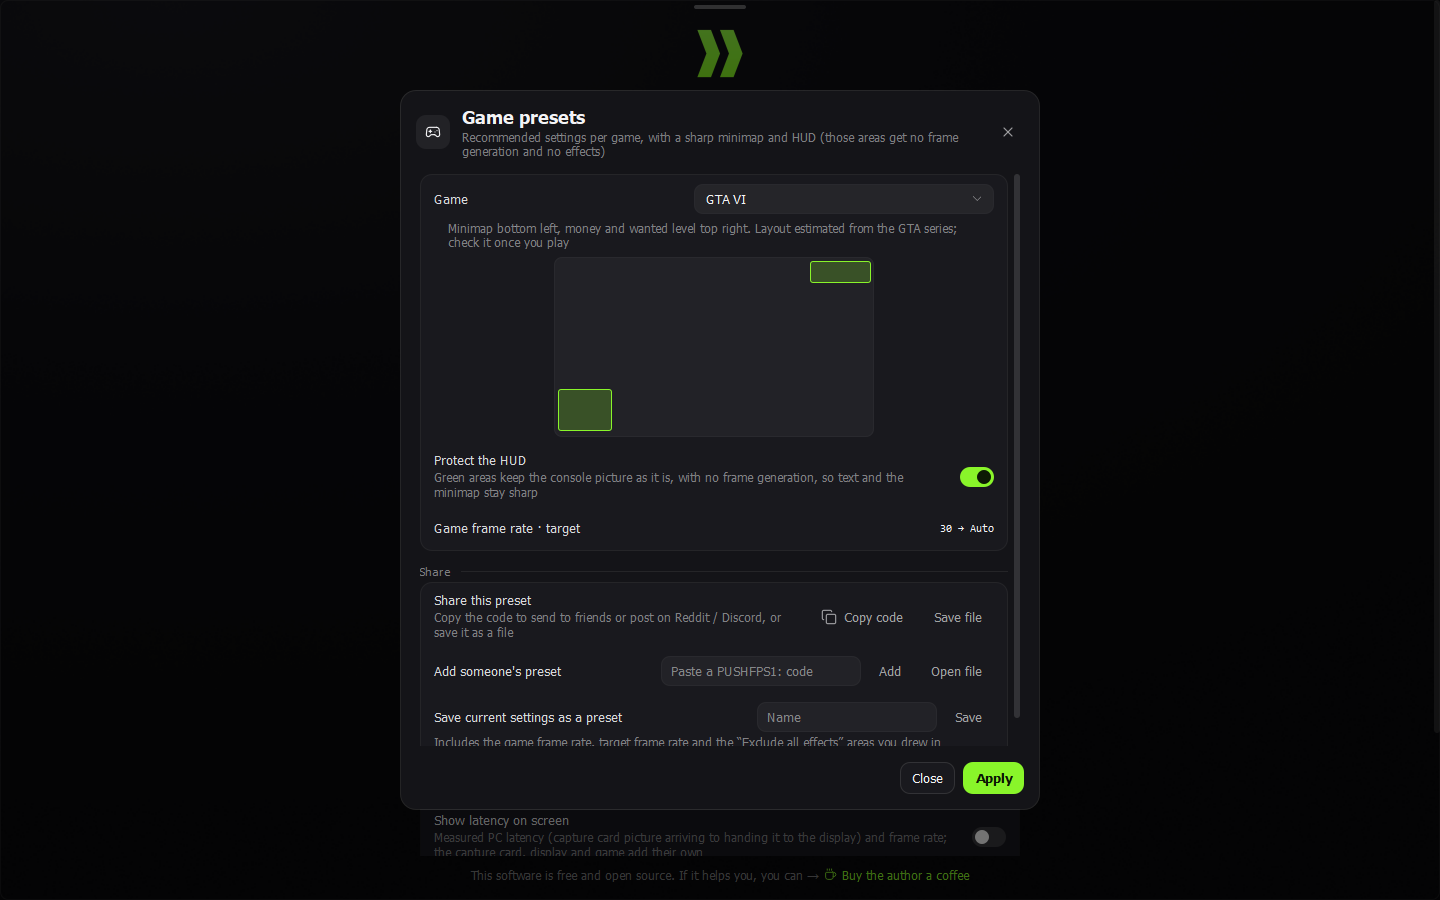
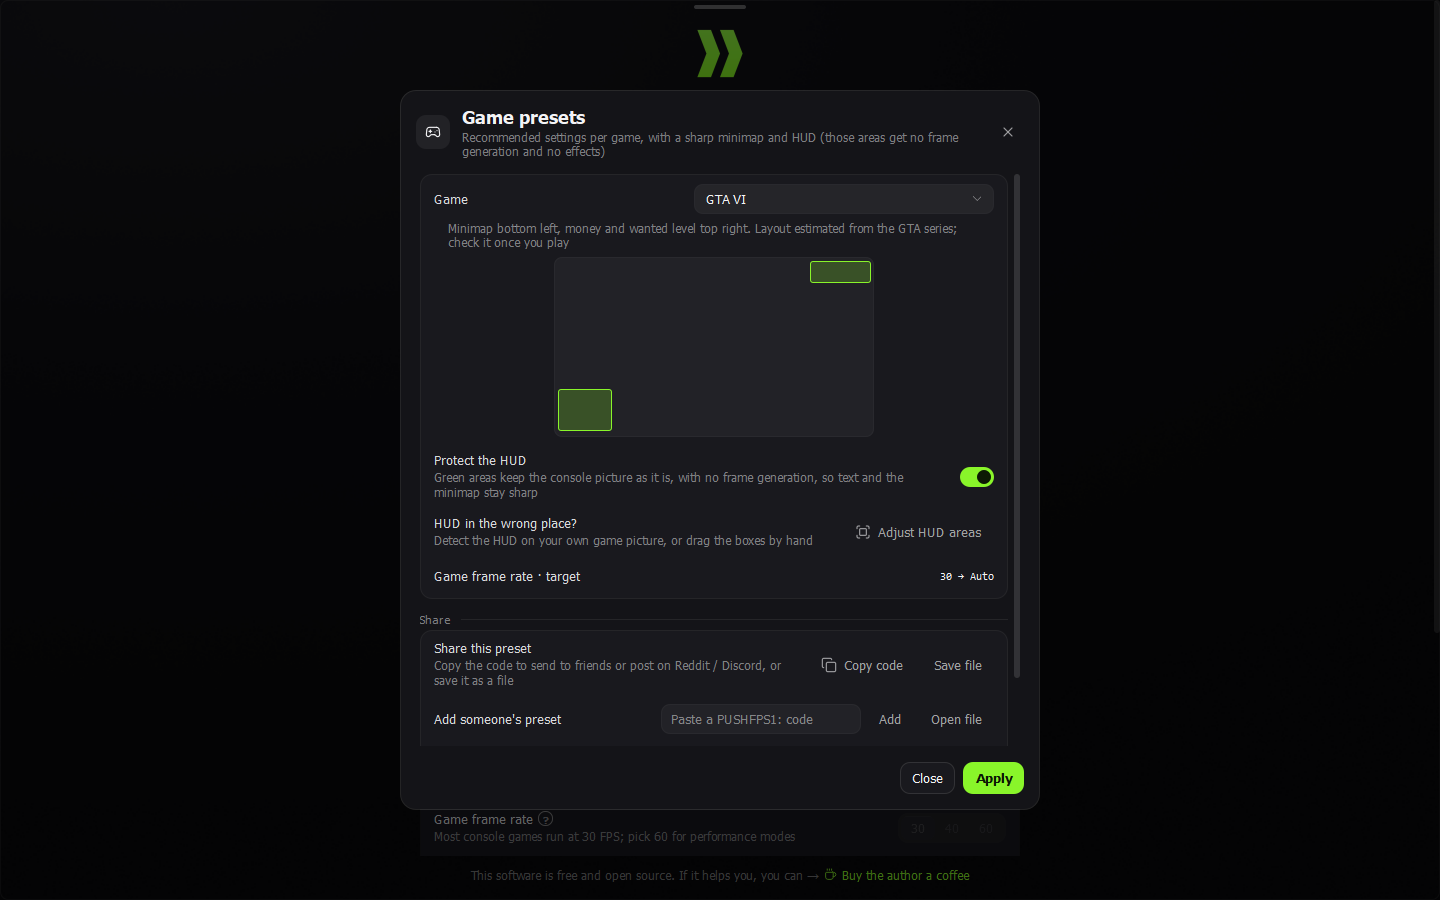
docs: new README screenshots (home with streaming sources, tool cards, HUD protection, streaming dialogs, advanced encoding)
Claude-Session: https://claude.ai/code/session_01TMAzA9HkCLcfknHZQ6qwKM

diff --git a/README.md b/README.md
@@ -159,6 +159,14 @@ like the original 30 FPS, plus a few milliseconds for the capture card and proce
 <td width="50%"><img src="assets/screenshots/appearance-black.png" alt="PushFPS home screen in black mode"><br><sub><b>Black mode.</b> Almost-black surfaces for OLED screens.</sub></td>
 <td width="50%"><img src="assets/screenshots/anr.png" alt="Settings, Apex Neural Rendering install card"><br><sub><b>ANR by Apex Compute.</b> Download from Apex, install in one click.</sub></td>
 </tr>
+<tr>
+<td width="50%"><img src="assets/screenshots/hud-protection.png" alt="HUD protection dialog with automatic detection and the box editor"><br><sub><b>HUD protection.</b> Automatic detection, boxes you can correct by hand.</sub></td>
+<td width="50%"><img src="assets/screenshots/ps5-streaming.png" alt="PS5 streaming dialog"><br><sub><b>PS5 streaming.</b> No capture card needed: Remote Play over your home network.</sub></td>
+</tr>
+<tr>
+<td width="50%"><img src="assets/screenshots/pc-streaming.png" alt="PC streaming dialog for Sunshine hosts"><br><sub><b>PC streaming.</b> Another PC through Sunshine (Moonlight protocol).</sub></td>
+<td width="50%"><img src="assets/screenshots/recording-advanced.png" alt="Advanced encoding settings"><br><sub><b>Advanced encoding.</b> Rate control, quality, preset, keyframes, MP4 or MKV.</sub></td>
+</tr>
 </table>
 
 <sub>Screenshots of the real app, taken automatically on a build machine without a graphics card, so
